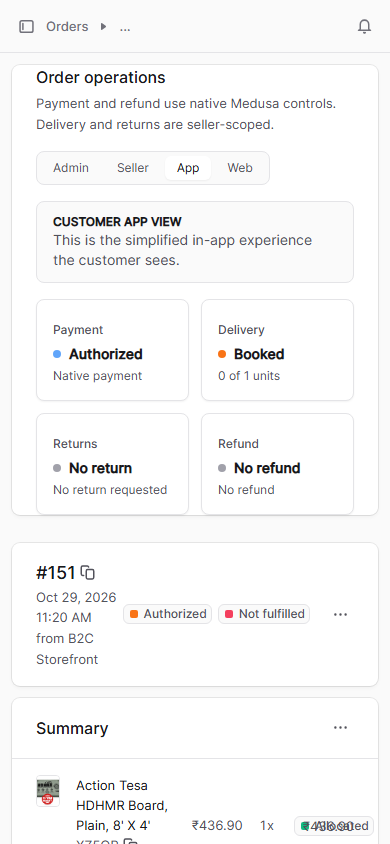
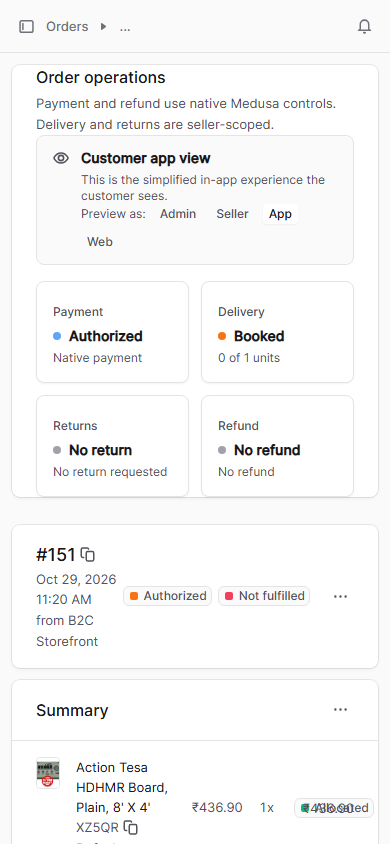
docs(chg-096): record v5 staging deploy with PreviewModeBanner redesign
- Update CHG-096.yaml and workflow-state.yaml for release-65b04c6,
  new medusa image SHA, and pass-40-of-40 browser QC.
- Update staging-admin-qc.mjs selectors for the new banner links and
  regenerate evidence (JSON + screenshots).
- Update staging-deployment.md with v5 release identity and banner notes.

diff --git a/client-projects/client101/evidence/CHG-096/staging-deployment.md b/client-projects/client101/evidence/CHG-096/staging-deployment.md
@@ -1,7 +1,7 @@
 # CHG-096 — Staging deployment and Admin order-detail QC
 
 **Status:** STAGING DEPLOYED AND VERIFIED
-**Change:** CHG-096 Revision 1 — Admin order-detail top-chrome UX (status strip, Payments card, role-mode switch)
+**Change:** CHG-096 Revision 1 — Admin order-detail top-chrome UX (status strip, Payments card, role-mode banner)
 **Environment:** staging only. Production is not authorized and was not touched.
 **Deploy owner:** requester-authorized OpenCode agent
 **Completed:** 2026-10-29
@@ -13,14 +13,14 @@
 | Item | Value |
 |---|---|
 | Baseline before release | `/opt/buildkart-releases/release-b7f93b9` (`b7f93b9`, CHG-094) |
-| Target branch | `release/chg-096-4` |
-| Release commit | `dc38fcc089c710c3078bad62e0ea09718d343431` |
-| Commit range | `b7f93b9..dc38fcc` — Admin top-chrome changes only |
-| Release worktree | `/opt/buildkart-releases/release-dc38fcc` |
-| Current symlink | `/opt/buildkart-releases/current -> release-dc38fcc` |
+| Target branch | `release/chg-096-5` |
+| Release commit | `65b04c6839728aa64380a2df5980cc539bcd46d0` |
+| Commit range | `b7f93b9..65b04c6` — Admin top-chrome changes only |
+| Release worktree | `/opt/buildkart-releases/release-65b04c6` |
+| Current symlink | `/opt/buildkart-releases/current -> release-65b04c6` |
 | Rollback release | `/opt/buildkart-releases/release-b7f93b9` |
 | Rollback image | `buildkart-hosted-pilot-medusa:rollback-b7f93b9` (`sha256:7db0f1e59c82`) |
-| New image | `buildkart-hosted-pilot-medusa:latest` (`sha256:a288bb00ad66`) |
+| New image | `buildkart-hosted-pilot-medusa:latest` (`sha256:2e64923a4383`) |
 | Production release | Not authorized |
 
 ## 2. What changed
@@ -28,10 +28,9 @@
 - Added `services/backend/apps/admin/src/components/order-preview/index.tsx` with reusable top-chrome components:
   - `StatusStrip` — unified Payment / Delivery / Returns / Refund tiles.
   - `PaymentsCard` — authorized, captured, refunded, outstanding amounts with payment method/reference.
-  - `RoleModeSwitch` — Admin / Seller / App / Web segmented control using `?previewMode=` query param.
-  - `PerspectiveBanner` — boundary notice for each preview mode.
+  - `PreviewModeBanner` — Polaris-style banner that shows the current perspective (Admin/Seller/App/Web) and inline preview links.
   - `AttentionStack`, `SectionNav`, `usePreviewMode`.
-- Refactored `services/backend/apps/admin/src/widgets/order-workbench-status.tsx` to use the new status strip and role-mode switch.
+- Refactored `services/backend/apps/admin/src/widgets/order-workbench-status.tsx` to use the new status strip and `PreviewModeBanner`.
 - Updated `services/backend/apps/admin/src/widgets/order-delivery-returns.tsx` to embed `PaymentsCard` and hide Admin payment/refund/delivery-update controls in Seller/App/Web preview modes.
 
 ## 3. What was NOT changed
@@ -43,9 +42,9 @@
 ## 4. Deployment procedure
 
 1. Acquired `/var/lock/buildkart-staging-deploy` (deploy owner: requester-authorized OpenCode agent).
-2. Created scoped release branch `release/chg-096-4` from baseline `b7f93b9` and cherry-picked the Admin top-chrome commits.
+2. Created scoped release branch `release/chg-096-5` from baseline `b7f93b9` and cherry-picked the Admin top-chrome commits.
 3. Built a fresh Medusa backend image (`medusa-api` + `medusa-worker`) with `--no-cache`.
-4. Switched `/opt/buildkart-releases/current` to `release-dc38fcc`, recreated Medusa containers, and restarted the proxy.
+4. Switched `/opt/buildkart-releases/current` to `release-65b04c6`, recreated Medusa containers, and restarted the proxy.
 5. Verified public health endpoints and admin bundle markers.
 6. Ran automated browser QC against order #151 at desktop (1440×900) and mobile (390×844).
 7. Preserved rollback image `buildkart-hosted-pilot-medusa:rollback-b7f93b9`.
@@ -63,7 +62,7 @@
 
 ### 5.2 Bundle marker check
 
-Main admin bundle `/dashboard/assets/index-PUHS8hXf.js` contains:
+Main admin bundle `/dashboard/assets/index-C7Avb4gI.js` contains:
 
 - `Order operations` ✅
 - `Payments` ✅
@@ -71,6 +70,7 @@ Main admin bundle `/dashboard/assets/index-PUHS8hXf.js` contains:
 - `Captured` ✅
 - `Refunded` ✅
 - `Outstanding` ✅
+- `Preview as` ✅
 - `Admin view` ✅
 - `Seller view` ✅
 - `Customer app view` ✅
@@ -82,7 +82,7 @@ Run: `node client-projects/client101/evidence/CHG-096/staging-admin-qc.mjs`
 
 Reference order: `#151` / `BK-261029-WT4R93` / `order_01M633BSHHWEMM9YT6K5S7PVCZ` / group `og_01M633BSJSH4023AHJPCKHNNKA`.
 
-Summary: **38/38 PASS**; 0 console errors; 0 unexpected failed requests.
+Summary: **40/40 PASS**; 0 console errors; 0 unexpected failed requests.
 
 Checked per viewport (desktop + mobile):
 
@@ -90,7 +90,7 @@ Checked per viewport (desktop + mobile):
 - No horizontal document overflow.
 - Status strip shows Payment / Delivery / Returns / Refund.
 - Payments card shows Authorized, Captured, Refunded, Outstanding amounts (₹514.06 authorized/outstanding).
-- Role-mode switch has Admin, Seller, App, Web controls.
+- Preview-mode banner shows the current perspective and "Preview as" Admin / Seller / App / Web links.
 - Seller mode shows Seller-view banner and hides native Medusa payment controls.
 - App mode shows Customer-app-view banner.
 - Web mode shows Customer-web-view banner.
@@ -112,6 +112,7 @@ docker restart buildkart-hosted-pilot-proxy-1
 
 ## 7. Evidence
 
+- `client-projects/client101/evidence/CHG-096/staging-deployment.md`
 - `client-projects/client101/evidence/CHG-096/staging-admin-qc.json`
 - `client-projects/client101/evidence/CHG-096/staging-admin-qc.mjs`
 - `client-projects/client101/evidence/CHG-096/screenshots/`
